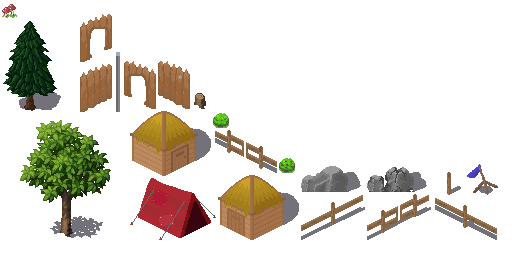
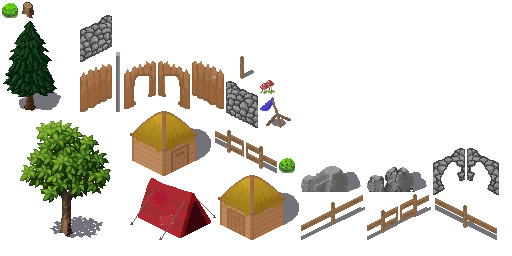
added second tier walls: stone.

diff --git a/desktop/src/dev/codewizz/main/DesktopLauncher.java b/desktop/src/dev/codewizz/main/DesktopLauncher.java
@@ -7,28 +7,28 @@ import com.badlogic.gdx.tools.texturepacker.TexturePacker.Settings;
 
 // Please note that on macOS your application needs to be started with the -XstartOnFirstThread JVM argument
 public class DesktopLauncher {
-	public static void main (String[] arg) {
-		Lwjgl3ApplicationConfiguration config = new Lwjgl3ApplicationConfiguration();
-		
-		config.setTitle("Age of Progress");
-		config.setForegroundFPS(60);
-		config.setFullscreenMode(Lwjgl3ApplicationConfiguration.getDisplayMode());
-		config.useVsync(true);
-		
-		setupTextures();
-		
-		new Lwjgl3Application(new Main(), config);
-	}
+    public static void main(String[] arg) {
+        Lwjgl3ApplicationConfiguration config = new Lwjgl3ApplicationConfiguration();
 
-	private static void setupTextures() {
-		Settings settings = new Settings();
-		settings.maxWidth = 2048;
-		settings.maxHeight = 2048;
-		TexturePacker.process(settings, "assets/textures/tiles", "assets/packs", "tiles");
-		TexturePacker.process(settings, "assets/textures/ui/icons", "assets/packs", "ui");
-		TexturePacker.process(settings, "assets/textures/entities", "assets/packs", "entities");
-		TexturePacker.process(settings, "assets/textures/objects", "assets/packs", "objects");
-		TexturePacker.process(settings, "assets/textures/particles", "assets/packs", "particles");
-		TexturePacker.process(settings, "assets/textures/items", "assets/packs", "items");
-	}
+        config.setTitle("Age of Progress");
+        config.setForegroundFPS(60);
+        config.setFullscreenMode(Lwjgl3ApplicationConfiguration.getDisplayMode());
+        config.useVsync(true);
+
+        setupTextures();
+
+        new Lwjgl3Application(new Main(), config);
+    }
+
+    private static void setupTextures() {
+        Settings settings = new Settings();
+        settings.maxWidth = 2048;
+        settings.maxHeight = 2048;
+        TexturePacker.process(settings, "assets/textures/tiles", "assets/packs", "tiles");
+        TexturePacker.process(settings, "assets/textures/ui/icons", "assets/packs", "ui");
+        TexturePacker.process(settings, "assets/textures/entities", "assets/packs", "entities");
+        TexturePacker.process(settings, "assets/textures/objects", "assets/packs", "objects");
+        TexturePacker.process(settings, "assets/textures/particles", "assets/packs", "particles");
+        TexturePacker.process(settings, "assets/textures/items", "assets/packs", "items");
+    }
 }

diff --git a/core/src/dev/codewizz/world/building/WallDoor.java b/core/src/dev/codewizz/world/building/WallDoor.java
@@ -10,8 +10,8 @@ import dev.codewizz.world.Cell;
 
 public class WallDoor extends Wall {
 
-    private static final Sprite TEXTURE = Assets.getSprite("wall-door");
-    private static final Sprite TEXTURE_FLIP = Assets.getSprite("wall-door-flipped");
+    private static final Sprite TEXTURE = Assets.getSprite("stone-wall-door");
+    private static final Sprite TEXTURE_FLIP = Assets.getSprite("stone-wall-door-flipped");
 
     public WallDoor(float x, float y, Cell cell, Direction dir) {
         super(x, y, cell, dir);

diff --git a/core/src/dev/codewizz/world/building/Wall.java b/core/src/dev/codewizz/world/building/Wall.java
@@ -12,8 +12,8 @@ import java.awt.*;
 
 public class Wall extends GameObject {
 		
-	private static final Sprite TEXTURE = Assets.getSprite("wall");
-	private static final Sprite TEXTURE_FLIP = Assets.getSprite("wall-flipped");
+	private static final Sprite TEXTURE = Assets.getSprite("stone-wall");
+	private static final Sprite TEXTURE_FLIP = Assets.getSprite("stone-wall-flipped");
 		
 	protected Direction facing;
 		
